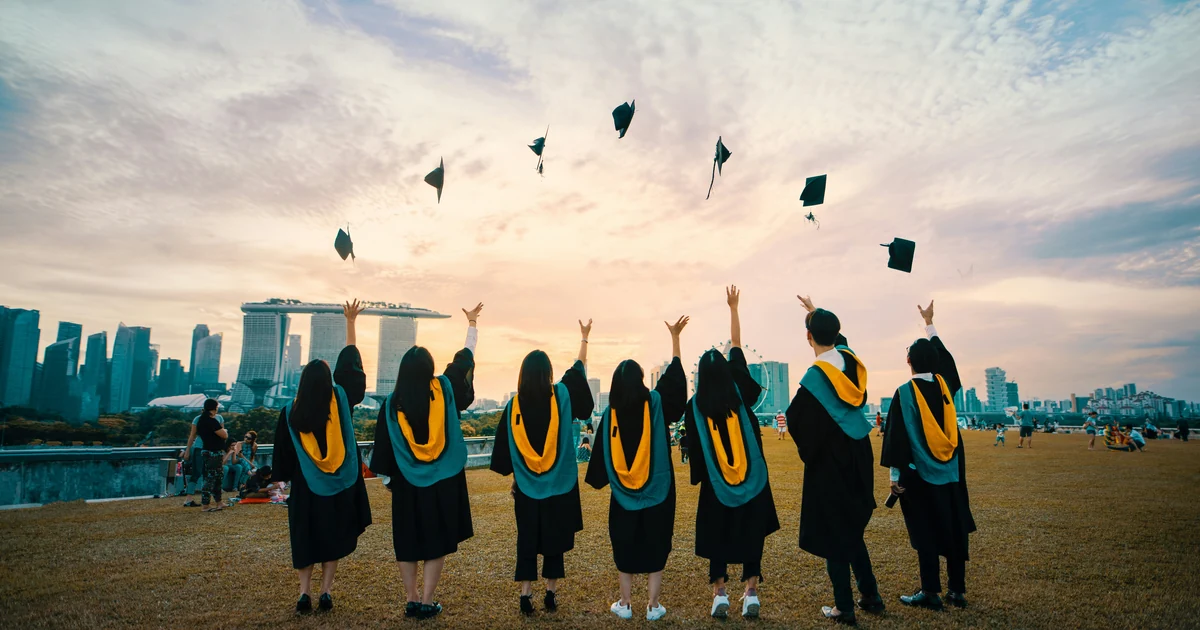
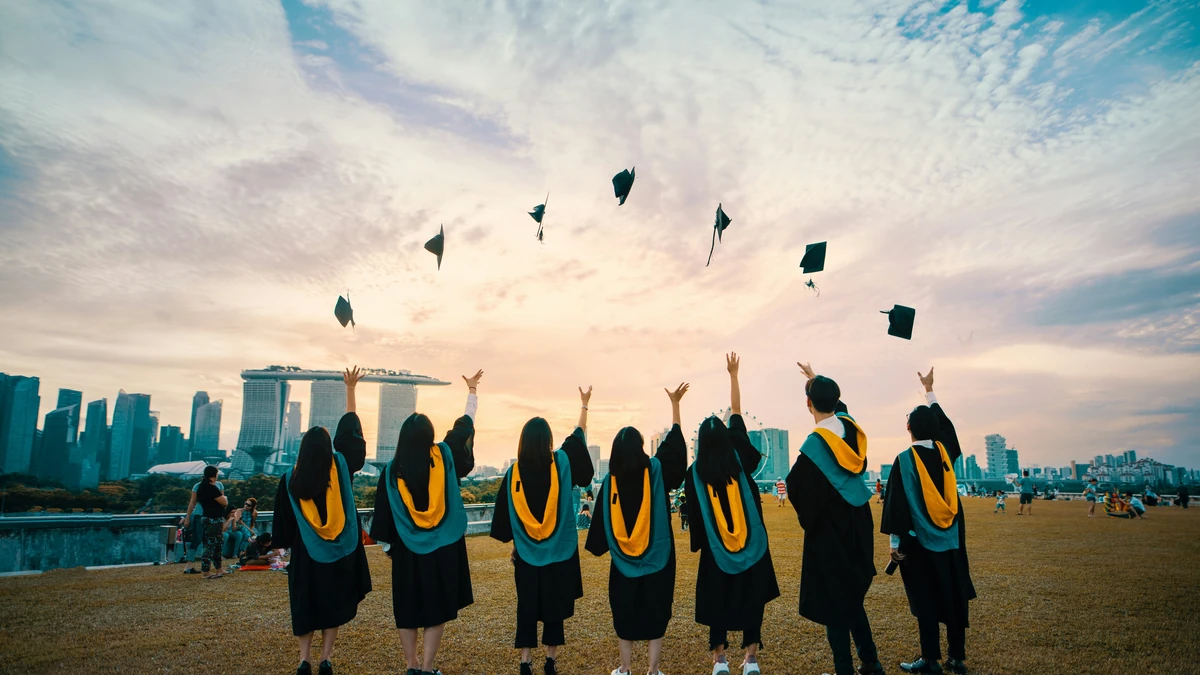
Fix hero image dimensions and add full SEO markup to all 7 article images
- Recrop hero to exact 16:9 (1200×675) to match cms-featured-media CSS aspect-ratio
- Top-biased crop preserves graduation caps at top of frame
- Hero: added sizes, decoding=async, itemprop=image
- Updated og:image:height from 630 → 675
- All 6 section figures: added itemprop=contentUrl, ImageObject schema, sizes attr, decoding=async, max-width:100%;height:auto style, border-radius:8px, figcaption itemprop=caption

diff --git a/study-in-malta-complete-guide.html b/study-in-malta-complete-guide.html
@@ -1,5 +1,5 @@
 <!DOCTYPE html>
-<!-- This site was created in Webflow. https://webflow.com --><!-- Last Published: Tue May 19 2026 08:00:19 GMT+0000 (Coordinated Universal Time) --><html data-wf-collection="69b2663609b76905b98cb54e" data-wf-domain="people-work-webflow-108-template.webflow.io" data-wf-item-slug="study-in-malta-complete-guide" data-wf-page="69b2663609b76905b98cb563" data-wf-site="6996b31b0e199fa8510adf4f" lang="en"><head><meta charset="utf-8"/><link rel="preconnect" href="https://cdn.prod.website-files.com" crossorigin/><link rel="dns-prefetch" href="https://cdn.prod.website-files.com"/><title>Guide to Study in Malta 2026: Complete Guide for International Students | Outreach Recruitment</title><meta content="Complete 2026 guide to studying in Malta. Discover universities, visa requirements, tuition fees, scholarships, accommodation, and how to apply as an international student." name="description"/><meta content="Guide to Study in Malta 2026: Complete Guide for International Students | Outreach Recruitment" property="og:title"/><meta content="Complete 2026 guide to studying in Malta. Discover universities, visa requirements, tuition fees, scholarships, accommodation, and how to apply as an international student." property="og:description"/><meta content="https://outreachrecruitment.net/images/study-in-malta-complete-guide/study-in-malta-complete-guide-hero.webp" property="og:image"<meta content="1200" property="og:image:width"/><meta content="630" property="og:image:height"/>/><meta content="Guide to Study in Malta 2026: Complete Guide for International Students" name="twitter:title"/><meta content="Complete 2026 guide to studying in Malta. Discover universities, visa requirements, tuition fees, scholarships, accommodation, and how to apply as an international student." name="twitter:description"/><meta content="https://outreachrecruitment.net/images/study-in-malta-complete-guide/study-in-malta-complete-guide-hero.webp" name="twitter:image"/><meta content="website" property="og:type"/><link href="https://outreachrecruitment.net/study-in-malta-complete-guide" rel="canonical"/><meta content="https://outreachrecruitment.net/study-in-malta-complete-guide" property="og:url"/><meta content="Outreach Recruitment Agency" property="og:site_name"/><meta content="summary_large_image" name="twitter:card"/><meta content="width=device-width, initial-scale=1" name="viewport"/><meta content="Webflow" name="generator"/><link crossorigin="anonymous" href="https://cdn.prod.website-files.com/6996b31b0e199fa8510adf4f/css/people-work-webflow-108-template.webflow.shared.6c8c6beff.css" integrity="sha384-bIxr7/VAGMc1npTdLY7+pxf0nBYi2449/GvW5FYUfyx/ZQEFNpXpICDcC/gSarqa" rel="stylesheet" type="text/css"/><link href="/assets/brand-overrides.css" rel="stylesheet" type="text/css"/><style>html.w-mod-js:not(.w-mod-ix3) :is(.button-rail, .heading-h1, .heading-h2, .heading-h3, .heading-h4, .heading-h5, .heading-h6, .tag, .caption, .label, .text-medium, .text-small, .text-large, [data-gsap-scroll="fade"], [data-gsap-scroll="fade-late"], .navigation, .media-fill) {visibility: hidden !important;}</style><link href="https://fonts.googleapis.com" rel="preconnect"/><link crossorigin="anonymous" href="https://fonts.gstatic.com" rel="preconnect"/><script src="https://ajax.googleapis.com/ajax/libs/webfont/1.6.26/webfont.js" type="text/javascript"></script><script type="text/javascript">WebFont.load({  google: {    families: ["Seaweed Script:300,400,500,600,700"]  }});</script><script type="text/javascript">!function(o,c){var n=c.documentElement,t=" w-mod-";n.className+=t+"js",("ontouchstart"in o||o.DocumentTouch&&c instanceof DocumentTouch)&&(n.className+=t+"touch")}(window,document);</script><link href="/assets/job-card-logo.jpg" rel="icon" type="image/jpeg"/><link href="/assets/job-card-logo.jpg" rel="apple-touch-icon"/><script type="application/ld+json">
+<!-- This site was created in Webflow. https://webflow.com --><!-- Last Published: Tue May 19 2026 08:00:19 GMT+0000 (Coordinated Universal Time) --><html data-wf-collection="69b2663609b76905b98cb54e" data-wf-domain="people-work-webflow-108-template.webflow.io" data-wf-item-slug="study-in-malta-complete-guide" data-wf-page="69b2663609b76905b98cb563" data-wf-site="6996b31b0e199fa8510adf4f" lang="en"><head><meta charset="utf-8"/><link rel="preconnect" href="https://cdn.prod.website-files.com" crossorigin/><link rel="dns-prefetch" href="https://cdn.prod.website-files.com"/><title>Guide to Study in Malta 2026: Complete Guide for International Students | Outreach Recruitment</title><meta content="Complete 2026 guide to studying in Malta. Discover universities, visa requirements, tuition fees, scholarships, accommodation, and how to apply as an international student." name="description"/><meta content="Guide to Study in Malta 2026: Complete Guide for International Students | Outreach Recruitment" property="og:title"/><meta content="Complete 2026 guide to studying in Malta. Discover universities, visa requirements, tuition fees, scholarships, accommodation, and how to apply as an international student." property="og:description"/><meta content="https://outreachrecruitment.net/images/study-in-malta-complete-guide/study-in-malta-complete-guide-hero.webp" property="og:image"<meta content="1200" property="og:image:width"/><meta content="675" property="og:image:height"/>/><meta content="Guide to Study in Malta 2026: Complete Guide for International Students" name="twitter:title"/><meta content="Complete 2026 guide to studying in Malta. Discover universities, visa requirements, tuition fees, scholarships, accommodation, and how to apply as an international student." name="twitter:description"/><meta content="https://outreachrecruitment.net/images/study-in-malta-complete-guide/study-in-malta-complete-guide-hero.webp" name="twitter:image"/><meta content="website" property="og:type"/><link href="https://outreachrecruitment.net/study-in-malta-complete-guide" rel="canonical"/><meta content="https://outreachrecruitment.net/study-in-malta-complete-guide" property="og:url"/><meta content="Outreach Recruitment Agency" property="og:site_name"/><meta content="summary_large_image" name="twitter:card"/><meta content="width=device-width, initial-scale=1" name="viewport"/><meta content="Webflow" name="generator"/><link crossorigin="anonymous" href="https://cdn.prod.website-files.com/6996b31b0e199fa8510adf4f/css/people-work-webflow-108-template.webflow.shared.6c8c6beff.css" integrity="sha384-bIxr7/VAGMc1npTdLY7+pxf0nBYi2449/GvW5FYUfyx/ZQEFNpXpICDcC/gSarqa" rel="stylesheet" type="text/css"/><link href="/assets/brand-overrides.css" rel="stylesheet" type="text/css"/><style>html.w-mod-js:not(.w-mod-ix3) :is(.button-rail, .heading-h1, .heading-h2, .heading-h3, .heading-h4, .heading-h5, .heading-h6, .tag, .caption, .label, .text-medium, .text-small, .text-large, [data-gsap-scroll="fade"], [data-gsap-scroll="fade-late"], .navigation, .media-fill) {visibility: hidden !important;}</style><link href="https://fonts.googleapis.com" rel="preconnect"/><link crossorigin="anonymous" href="https://fonts.gstatic.com" rel="preconnect"/><script src="https://ajax.googleapis.com/ajax/libs/webfont/1.6.26/webfont.js" type="text/javascript"></script><script type="text/javascript">WebFont.load({  google: {    families: ["Seaweed Script:300,400,500,600,700"]  }});</script><script type="text/javascript">!function(o,c){var n=c.documentElement,t=" w-mod-";n.className+=t+"js",("ontouchstart"in o||o.DocumentTouch&&c instanceof DocumentTouch)&&(n.className+=t+"touch")}(window,document);</script><link href="/assets/job-card-logo.jpg" rel="icon" type="image/jpeg"/><link href="/assets/job-card-logo.jpg" rel="apple-touch-icon"/><script type="application/ld+json">
 {
   "@context": "https://schema.org",
   "@graph": [
@@ -147,7 +147,7 @@
 <path d="M7.5013 2.5L5.0013 2.5C4.54106 2.5 4.16797 2.8731 4.16797 3.33333L4.16797 16.6667C4.16797 17.1269 4.54106 17.5 5.0013 17.5H7.5013C7.96154 17.5 8.33463 17.1269 8.33463 16.6667L8.33463 3.33333C8.33463 2.8731 7.96154 2.5 7.5013 2.5Z" fill="currentColor"></path>
 </svg></div></span><span class="pause-state" hidden=""><div class="icon small w-embed"><svg fill="none" viewbox="0 0 20 20" xmlns="http://www.w3.org/2000/svg">
 <path d="M4.16797 4.16667C4.16788 3.87342 4.24517 3.58533 4.39204 3.3315C4.5389 3.07767 4.75014 2.86708 5.00443 2.721C5.25871 2.57492 5.54704 2.49853 5.84029 2.49952C6.13355 2.50052 6.42135 2.57887 6.67464 2.72667L16.6721 8.55834C16.9244 8.70474 17.1339 8.91479 17.2796 9.16751C17.4253 9.42022 17.5021 9.70675 17.5023 9.99845C17.5026 10.2902 17.4263 10.5768 17.281 10.8298C17.1358 11.0828 16.9267 11.2932 16.6746 11.44L6.67464 17.2733C6.42135 17.4211 6.13355 17.4995 5.84029 17.5005C5.54704 17.5015 5.25871 17.4251 5.00443 17.279C4.75014 17.1329 4.5389 16.9223 4.39204 16.6685C4.24517 16.4147 4.16788 16.1266 4.16797 15.8333L4.16797 4.16667Z" fill="currentColor"></path>
-</svg></div></span></button></div></div><div class="promo-overlay"></div></div><div class="promo-content dropdown"><div class="w-layout-hflex promo-bottom"><div class="heading-h5">Make it yours</div><a class="button-secondary w-variant-99b8bfb9-5755-d34a-f573-cb67a83f3440 w-inline-block" data-wf--button-secondary--variant="small" href="https://108.supply"><div class="button-label" data-figma-id="12018:4671">Learn more</div></a></div></div></div><div class="navigation-footer"><div class="text-small faint">Design by <span class="small-link">Outreach Marketing</span></div></div></nav><div class="navigation-right" id="w-node-a06a40ad-d853-40d9-7f6f-fa0455950616-5595057d"><a class="button-primary animated w-inline-block" href="/contact-us"><div class="button-label">Contact us</div><div class="button-rail"><div class="button-circle small accent"><div class="icon small w-embed"><svg fill="none" viewBox="0 0 24 24" xmlns="http://www.w3.org/2000/svg"><path d="M5 12H19M19 12L12 5M19 12L12 19" stroke="currentColor" stroke-linecap="round" stroke-linejoin="round" stroke-width="var(--_⚡-icons---icon-stroke)"></path></svg></div></div></div><div class="icon-button"><div class="icon small w-embed"><svg fill="none" viewBox="0 0 24 24" xmlns="http://www.w3.org/2000/svg"><path d="M5 12H19M19 12L12 5M19 12L12 19" stroke="currentColor" stroke-linecap="round" stroke-linejoin="round" stroke-width="var(--_⚡-icons---icon-stroke)"></path></svg></div></div></a></div></div></div><div class="navigation-overlay"></div></div><main id="main-content" class="main" role="main"><article itemscope itemtype="https://schema.org/Article"><section class="section page-header" aria-label="Article header"><div class="w-layout-blockcontainer container w-container"><div class="w-layout-vflex section-content"><div class="w-layout-vflex text center" data-gsap-scroll="text"><div class="tag darker">Study in Malta</div><h1 class="heading-h1">Guide to Study in Malta 2026: Complete Guide for International Students</h1><div class="caption blue-caption">11 June 2026 &mdash; Outreach Recruitment Agency &middot; 22 min read</div></div><div class="cms-featured-media" data-gsap-scroll="fade"><!-- Photo: Pang Yuhao on Unsplash — https://unsplash.com/photos/people-throwing-hats-on-air-_kd5cxwZOK4 --><img alt="Students celebrating graduation by throwing caps in the air — Study in Malta 2026, Outreach Recruitment" class="media-fill" loading="eager" fetchpriority="high" width="1200" height="630" src="/images/study-in-malta-complete-guide/study-in-malta-complete-guide-hero.webp" srcset="/images/study-in-malta-complete-guide/study-in-malta-complete-guide-hero-800w.webp 800w, /images/study-in-malta-complete-guide/study-in-malta-complete-guide-hero.webp 1200w"/></div></div></div></section><section class="section padding-top-extra-small" aria-labelledby="why-malta"><div class="w-layout-blockcontainer container tight w-container"><div class="w-layout-vflex section-content"><div class="cms-article"><div class="stack gap-07" data-gsap-scroll="stagger"><div class="w-richtext" data-gsap-scroll="stagger">
+</svg></div></span></button></div></div><div class="promo-overlay"></div></div><div class="promo-content dropdown"><div class="w-layout-hflex promo-bottom"><div class="heading-h5">Make it yours</div><a class="button-secondary w-variant-99b8bfb9-5755-d34a-f573-cb67a83f3440 w-inline-block" data-wf--button-secondary--variant="small" href="https://108.supply"><div class="button-label" data-figma-id="12018:4671">Learn more</div></a></div></div></div><div class="navigation-footer"><div class="text-small faint">Design by <span class="small-link">Outreach Marketing</span></div></div></nav><div class="navigation-right" id="w-node-a06a40ad-d853-40d9-7f6f-fa0455950616-5595057d"><a class="button-primary animated w-inline-block" href="/contact-us"><div class="button-label">Contact us</div><div class="button-rail"><div class="button-circle small accent"><div class="icon small w-embed"><svg fill="none" viewBox="0 0 24 24" xmlns="http://www.w3.org/2000/svg"><path d="M5 12H19M19 12L12 5M19 12L12 19" stroke="currentColor" stroke-linecap="round" stroke-linejoin="round" stroke-width="var(--_⚡-icons---icon-stroke)"></path></svg></div></div></div><div class="icon-button"><div class="icon small w-embed"><svg fill="none" viewBox="0 0 24 24" xmlns="http://www.w3.org/2000/svg"><path d="M5 12H19M19 12L12 5M19 12L12 19" stroke="currentColor" stroke-linecap="round" stroke-linejoin="round" stroke-width="var(--_⚡-icons---icon-stroke)"></path></svg></div></div></a></div></div></div><div class="navigation-overlay"></div></div><main id="main-content" class="main" role="main"><article itemscope itemtype="https://schema.org/Article"><section class="section page-header" aria-label="Article header"><div class="w-layout-blockcontainer container w-container"><div class="w-layout-vflex section-content"><div class="w-layout-vflex text center" data-gsap-scroll="text"><div class="tag darker">Study in Malta</div><h1 class="heading-h1">Guide to Study in Malta 2026: Complete Guide for International Students</h1><div class="caption blue-caption">11 June 2026 &mdash; Outreach Recruitment Agency &middot; 22 min read</div></div><div class="cms-featured-media" data-gsap-scroll="fade"><!-- Photo: Pang Yuhao on Unsplash — https://unsplash.com/photos/people-throwing-hats-on-air-_kd5cxwZOK4 --><img alt="Students celebrating graduation by throwing caps — Study in Malta 2026 | Outreach Recruitment" class="media-fill" src="/images/study-in-malta-complete-guide/study-in-malta-complete-guide-hero.webp" srcset="/images/study-in-malta-complete-guide/study-in-malta-complete-guide-hero-800w.webp 800w, /images/study-in-malta-complete-guide/study-in-malta-complete-guide-hero.webp 1200w" sizes="(max-width: 900px) 100vw, 1200px" width="1200" height="675" fetchpriority="high" decoding="async" itemprop="image"/></div></div></div></section><section class="section padding-top-extra-small" aria-labelledby="why-malta"><div class="w-layout-blockcontainer container tight w-container"><div class="w-layout-vflex section-content"><div class="cms-article"><div class="stack gap-07" data-gsap-scroll="stagger"><div class="w-richtext" data-gsap-scroll="stagger">
 <!--
 CONTENT FRESHNESS
 Published:       2026-06-11
@@ -209,12 +209,15 @@ COMPETITOR GAP: HowTo schema, FAQ accordion, testimonials+schema, multilingual b
 <p>Malta is a full EU member state where all accredited programmes are taught in English &mdash; one of only two EU countries with English as an official language. It combines EU-recognised degrees, affordable tuition, Mediterranean quality of life, and a growing job market in iGaming, fintech, and ICT.</p>
 
 <!-- Photo: Vitaly Gariev on Unsplash — https://unsplash.com/photos/professor-lectures-to-students-in-a-classroom-setting-RDf6Cvns88Q -->
-<figure style="margin:32px 0;">
+<figure style="margin:32px 0;" itemscope itemtype="https://schema.org/ImageObject">
   <img src="/images/study-in-malta-complete-guide/study-in-malta-complete-guide-section-1.webp"
-       alt="Professor lectures to students in a university classroom — Outreach Recruitment Study in Malta guide"
-       width="1200" height="628" loading="lazy"
-       srcset="/images/study-in-malta-complete-guide/study-in-malta-complete-guide-section-1.webp 1200w" />
-  <figcaption>University lecture in progress — the kind of classroom environment awaiting students in Malta. Photo: Vitaly Gariev / Unsplash.</figcaption>
+       alt="University professor lecturing students in Malta — Study in Malta guide 2026 | Outreach Recruitment"
+       width="1200" height="628"
+       loading="lazy" decoding="async"
+       sizes="(max-width: 600px) 100vw, 1200px"
+       style="max-width:100%;height:auto;display:block;border-radius:8px;"
+       itemprop="contentUrl" />
+  <figcaption itemprop="caption" style="font-size:13px;color:#6b7280;margin-top:8px;">University lecture in progress — the kind of classroom environment awaiting students in Malta. Photo: Vitaly Gariev / Unsplash.</figcaption>
 </figure>
 
 <p>For the full programme listing, visit our <a href="https://outreachrecruitment.net/study-in-malta">Study in Malta</a> page &mdash; updated for the 2026 intake.</p>
@@ -292,11 +295,15 @@ COMPETITOR GAP: HowTo schema, FAQ accordion, testimonials+schema, multilingual b
 <p>EU and EEA citizens need no visa. Non-EU students must apply for a Malta Long Stay Visa (Type D) combined with a student residence permit.</p>
 
 <!-- Photo: Marielle Ursua on Unsplash — https://unsplash.com/photos/a-person-using-a-laptop-and-a-cell-phone-l7AVeJi1RMk -->
-<figure style="margin:32px 0;">
+<figure style="margin:32px 0;" itemscope itemtype="https://schema.org/ImageObject">
   <img src="/images/study-in-malta-complete-guide/study-in-malta-complete-guide-section-2.webp"
-       alt="Student completing Malta student visa application online on laptop — Outreach Recruitment"
-       width="800" height="500" loading="lazy" />
-  <figcaption>Applying for a Malta student residence permit can be done online. Photo: Marielle Ursua / Unsplash.</figcaption>
+       alt="International student completing Malta student visa application online — Outreach Recruitment"
+       width="800" height="500"
+       loading="lazy" decoding="async"
+       sizes="(max-width: 600px) 100vw, 800px"
+       style="max-width:100%;height:auto;display:block;border-radius:8px;"
+       itemprop="contentUrl" />
+  <figcaption itemprop="caption" style="font-size:13px;color:#6b7280;margin-top:8px;">Applying for a Malta student residence permit can be done online. Photo: Marielle Ursua / Unsplash.</figcaption>
 </figure>
 
 <ol>
@@ -339,11 +346,15 @@ COMPETITOR GAP: HowTo schema, FAQ accordion, testimonials+schema, multilingual b
 <p>Malta&rsquo;s living costs average &euro;750&ndash;&euro;1,100/month &mdash; significantly below London, Amsterdam, or Dublin. Tuition fees are also among the lowest in the EU for English-taught programmes.</p>
 
 <!-- Photo: Nick Morrison on Unsplash — https://unsplash.com/photos/macbook-pro-near-white-open-book-FHnnjk1Yj7Y -->
-<figure style="margin:32px 0;">
+<figure style="margin:32px 0;" itemscope itemtype="https://schema.org/ImageObject">
   <img src="/images/study-in-malta-complete-guide/study-in-malta-complete-guide-section-3.webp"
-       alt="Student planning Malta study budget with laptop and notes — Outreach Recruitment"
-       width="800" height="500" loading="lazy" />
-  <figcaption>Planning your study budget in advance helps avoid surprises in Malta. Photo: Nick Morrison / Unsplash.</figcaption>
+       alt="Student planning study budget in Malta with laptop — cost of studying in Malta 2026 | Outreach Recruitment"
+       width="800" height="500"
+       loading="lazy" decoding="async"
+       sizes="(max-width: 600px) 100vw, 800px"
+       style="max-width:100%;height:auto;display:block;border-radius:8px;"
+       itemprop="contentUrl" />
+  <figcaption itemprop="caption" style="font-size:13px;color:#6b7280;margin-top:8px;">Planning your study budget in advance helps avoid surprises in Malta. Photo: Nick Morrison / Unsplash.</figcaption>
 </figure>
 
 <ul>
@@ -386,11 +397,15 @@ COMPETITOR GAP: HowTo schema, FAQ accordion, testimonials+schema, multilingual b
 <p>Start your accommodation search at least 8&ndash;10 weeks before your course. The market moves quickly, especially for September intake.</p>
 
 <!-- Photo: Frames For Your Heart on Unsplash — https://unsplash.com/photos/white-bed-comforter-near-glass-window-8_V45fGyWz4 -->
-<figure style="margin:32px 0;">
+<figure style="margin:32px 0;" itemscope itemtype="https://schema.org/ImageObject">
   <img src="/images/study-in-malta-complete-guide/study-in-malta-complete-guide-section-4.webp"
-       alt="Modern student accommodation bedroom with natural light in Malta — Outreach Recruitment"
-       width="800" height="500" loading="lazy" />
-  <figcaption>Student rooms in Malta range from university residence halls to private shared apartments. Photo: Frames For Your Heart / Unsplash.</figcaption>
+       alt="Student accommodation bedroom in Malta — modern furnished room for international students | Outreach Recruitment"
+       width="800" height="500"
+       loading="lazy" decoding="async"
+       sizes="(max-width: 600px) 100vw, 800px"
+       style="max-width:100%;height:auto;display:block;border-radius:8px;"
+       itemprop="contentUrl" />
+  <figcaption itemprop="caption" style="font-size:13px;color:#6b7280;margin-top:8px;">Student rooms in Malta range from university residence halls to private shared apartments. Photo: Frames For Your Heart / Unsplash.</figcaption>
 </figure>
 
 <ul>
@@ -404,11 +419,15 @@ COMPETITOR GAP: HowTo schema, FAQ accordion, testimonials+schema, multilingual b
 <p>EU students have no work restrictions. Non-EU students on a valid student residence permit may work up to 20 hours per week during term time and full-time during official academic holidays.</p>
 
 <!-- Photo: Gustavo Fring on Pexels — https://www.pexels.com/photo/businessman-working-on-laptop-in-cafe-7446935/ -->
-<figure style="margin:32px 0;">
+<figure style="margin:32px 0;" itemscope itemtype="https://schema.org/ImageObject">
   <img src="/images/study-in-malta-complete-guide/study-in-malta-complete-guide-section-5.webp"
-       alt="International student working part-time in Malta café — Outreach Recruitment"
-       width="800" height="500" loading="lazy" />
-  <figcaption>Non-EU students may work up to 20 hours per week in Malta during term time. Photo: Gustavo Fring / Pexels.</figcaption>
+       alt="International student working part-time in Malta cafe — 20 hours per week allowed | Outreach Recruitment"
+       width="800" height="500"
+       loading="lazy" decoding="async"
+       sizes="(max-width: 600px) 100vw, 800px"
+       style="max-width:100%;height:auto;display:block;border-radius:8px;"
+       itemprop="contentUrl" />
+  <figcaption itemprop="caption" style="font-size:13px;color:#6b7280;margin-top:8px;">Non-EU students may work up to 20 hours per week in Malta during term time. Photo: Gustavo Fring / Pexels.</figcaption>
 </figure>
 
 <ul>
@@ -439,11 +458,15 @@ COMPETITOR GAP: HowTo schema, FAQ accordion, testimonials+schema, multilingual b
 <p>Living in Malta means Mediterranean weather, a compact island, a safe environment, and a rich cultural life &mdash; all while studying towards an EU-recognised degree.</p>
 
 <!-- Photo: Luke Tanis on Unsplash — https://unsplash.com/photos/brown-building-facing-sea-oJ2eGgSfe6Y -->
-<figure style="margin:32px 0;">
+<figure style="margin:32px 0;" itemscope itemtype="https://schema.org/ImageObject">
   <img src="/images/study-in-malta-complete-guide/study-in-malta-complete-guide-section-6.webp"
-       alt="Valletta Malta waterfront historic buildings facing the Mediterranean Sea — Outreach Recruitment"
-       width="800" height="500" loading="lazy" />
-  <figcaption>Valletta, Malta's capital — a UNESCO World Heritage city and home to a vibrant student community. Photo: Luke Tanis / Unsplash.</figcaption>
+       alt="Valletta Malta waterfront buildings — UNESCO World Heritage capital city for international students | Outreach Recruitment"
+       width="800" height="500"
+       loading="lazy" decoding="async"
+       sizes="(max-width: 600px) 100vw, 800px"
+       style="max-width:100%;height:auto;display:block;border-radius:8px;"
+       itemprop="contentUrl" />
+  <figcaption itemprop="caption" style="font-size:13px;color:#6b7280;margin-top:8px;">Valletta, Malta's capital — a UNESCO World Heritage city and home to a vibrant student community. Photo: Luke Tanis / Unsplash.</figcaption>
 </figure>
 
 <ul>
